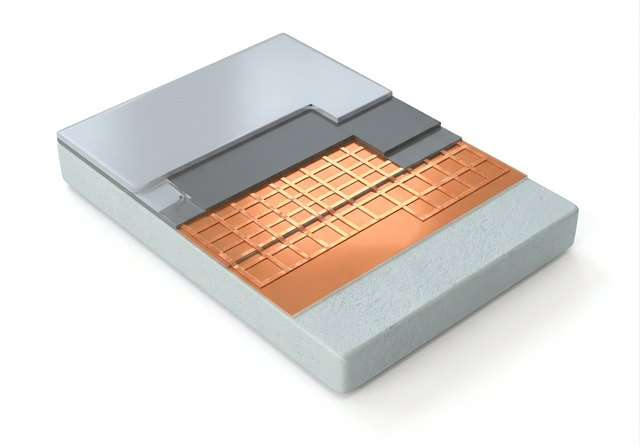
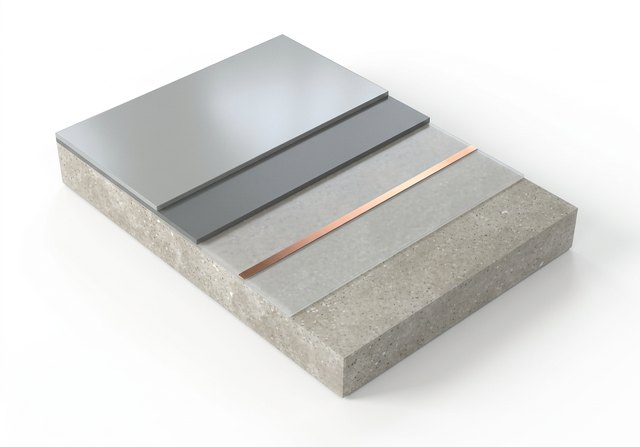
система 06: новая диаграмма — тонкая медная лента, бетон в стиле остальных систем (v2)

diff --git a/systems-06.html b/systems-06.html
@@ -39,7 +39,7 @@
 </div></div>
 <section class="sec sec-tight">
   <div class="wrap">
-    <a class="backlink" href="systems.html">← Все системы покрытий</a><div class="sys-hero"><div class="sys-photo"><img src="img/sys06.jpg" alt="Антистатическое покрытие пола — покрытие Plansher"></div><div class="facts"><div class="frow"><dt>Толщина</dt><dd>0,4–0,5 мм окрасочная · 2,0–2,5 мм наливная</dd></div><div class="frow"><dt>Цвет</dt><dd>по каталогу RAL</dd></div><div class="frow"><dt>Документ</dt><dd class="mono">ТУ 2312-001-02566361-2016</dd></div><div class="apply facts-apply"><span>Обеспылевание</span><span>Защита основания</span><span>Токопроводящий контур</span><span>Сопротивление 10⁴–10⁹ Ом</span><span>Приёмка по ГОСТ IEC 61340-4-1</span></div></div></div><div class="subblock"><h3 class="mini">Состав системы — слой за слоем</h3><div class="laystack"><div class="lay"><span class="role">Грунтование</span><span class="mat">грунтовка Plansher 111</span><span class="spec">расход 0,3 кг/м²</span></div><div class="lay"><span class="role">Токопроводящий контур</span><span class="mat">самоклеящаяся медная лента</span><span class="spec">сетка с шагом 3–6 м · подключение к контуру заземления здания</span></div><div class="lay"><span class="role">Проводящий слой</span><span class="mat">токопроводящий грунт Plansher 111 AS</span><span class="spec">расход 0,15–0,3 кг/м²</span></div><div class="lay"><span class="role">Финишный слой</span><span class="mat">антистатическая наливная композиция Plansher 212 AS</span><span class="spec">расход 3,0 кг/м² · толщина 2,0 мм</span></div><div class="lay"><span class="role">Финишный слой — окрасочный вариант</span><span class="mat">антистатическая краска Plansher 311 AS</span><span class="spec">расход 0,45 кг/м² · толщина 0,4–0,5 мм</span></div></div><div class="sys-total"><div class="t-label">Общий расход материалов для антистатического покрытия (наливной вариант)</div><ul><li>Грунтовка Plansher 111 — 0,3 кг/м²</li><li>Токопроводящий грунт Plansher 111 AS — 0,15–0,3 кг/м²</li><li>Наливная композиция Plansher 212 AS — 3,0 кг/м²</li><li>Медная лента — 0,4–0,5 м.п./м²</li></ul></div></div><div class="subblock"><h3 class="mini">Области применения</h3><div class="apply"><span>в серверных и ЦОД</span><span>на производстве электроники</span><span>в диспетчерских и лабораториях</span><span>во взрывоопасных зонах с ЛВЖ</span><span>на фармацевтических производствах</span></div></div><div class="subblock"><h3 class="mini">Рекомендации по нанесению</h3><p class="rec">Поэтапное нанесение материалов, начиная с основания.</p><p class="rec">Наносится с расходом 0,1–0,3 кг/м² (в зависимости от впитывающей способности основания) на слой, нейлоновым валиком с длиной ворса ~8–12 мм, или резиновым или гладким шпателем.</p><p class="rec">Нанесение производится в 2 слоя.</p></div><div class="subblock"><h3 class="mini">Подготовка материала к применению</h3><ol class="prep"><li>Тщательно, не менее 2-х мин., перемешать компонент А низкооборотным миксером (150–300 об/мин).</li><li>Добавить все количество компонента В в емкость с компонентом А и перемешивать в течение еще ~2-х мин., обращая особое внимание на перемешивание материала у дна и стенок, до достижения однородной смеси.</li><li>При необходимости введения наполнителя (Plansher® Quartz, Plansher® Filler N), его вводят после смешения компонентов А и В, и снова перемешивают смесь до однородного состояния.</li><li>Для гарантированного получения однородной смеси следует перелить смесь в чистую емкость и снова перемешать до достижения однородного состояния. Для минимизации воздухововлечения миксер должен быть укомплектован соответствующей насадкой. По этой же причине не рекомендуется слишком длительное перемешивание.</li></ol></div><div class="subblock"><h3 class="mini">Преимущества</h3><div class="apply"><span>Высокая адгезия и механическая прочность</span><span>Низкая вязкость</span><span>Легкость нанесения</span><span>Универсальность применения</span><span>Высокая наполняемость кварцевым песком</span><span>Совместимость с различными наполнителями</span><span>Быстрый набор прочности</span><span>Не содержит растворителей</span><span>Экономичность</span></div></div><div class="subblock"><h3 class="mini">Хранение и безопасность</h3><div class="safety"><div class="safe"><h4>Срок и условия хранения</h4><ul><li>Гарантийный срок хранения 12 месяцев от даты производства.</li><li>Компоненты хранить в заводской упаковке, в сухом помещении, при температуре от +10°С до +30°С.</li><li>Не допускать попадания прямых солнечных лучей.</li><li>Хранение после вскрытия заводской упаковки не допускается.</li></ul></div><div class="safe"><h4>Токсичность</h4><p class="tox-v">Класс 2</p><p class="mono">ГОСТ 12.1.005-88</p></div><div class="safe"><h4>Меры предосторожности</h4><ul><li>Работы проводить в хорошо проветриваемом помещении.</li><li>Не допускать попадания материала на открытые участки кожи, в глаза и рот.</li><li>При проведении работ использовать средства индивидуальной защиты.</li></ul></div><div class="safe"><h4>Экологическая безопасность</h4><p>Компоненты в несмешанном состоянии могут повлечь загрязнение окружающей среды. Не допускать попадания в канализацию, почву и грунтовые воды. Отвержденный состав может утилизироваться как твердый строительный мусор.</p></div><div class="safe wide"><h4>Ограничение ответственности</h4><p>Компания Plansher не может контролировать процесс перевозки, хранения, нанесения материалов и условия эксплуатации покрытий конечными пользователями. Компания отвечает только за качество материалов при их поставке потребителям и гарантирует соответствие стандартам. Мы не берём на себя ответственность за проблемы, вызванные неправильным использованием материалов.</p></div></div></div><div class="sysnav subblock"><a href="systems-05.html"><span class="nlabel">← СИСТЕМА 05</span><span class="ntitle">Кварценаполненное нескользящее покрытие</span></a><a class="next" href="systems-01.html"><span class="nlabel">СИСТЕМА 01 →</span><span class="ntitle">Обеспыливающее покрытие</span></a></div>
+    <a class="backlink" href="systems.html">← Все системы покрытий</a><div class="sys-hero"><div class="sys-photo"><img src="img/sys06.jpg?v=2" alt="Антистатическое покрытие пола — покрытие Plansher"></div><div class="facts"><div class="frow"><dt>Толщина</dt><dd>0,4–0,5 мм окрасочная · 2,0–2,5 мм наливная</dd></div><div class="frow"><dt>Цвет</dt><dd>по каталогу RAL</dd></div><div class="frow"><dt>Документ</dt><dd class="mono">ТУ 2312-001-02566361-2016</dd></div><div class="apply facts-apply"><span>Обеспылевание</span><span>Защита основания</span><span>Токопроводящий контур</span><span>Сопротивление 10⁴–10⁹ Ом</span><span>Приёмка по ГОСТ IEC 61340-4-1</span></div></div></div><div class="subblock"><h3 class="mini">Состав системы — слой за слоем</h3><div class="laystack"><div class="lay"><span class="role">Грунтование</span><span class="mat">грунтовка Plansher 111</span><span class="spec">расход 0,3 кг/м²</span></div><div class="lay"><span class="role">Токопроводящий контур</span><span class="mat">самоклеящаяся медная лента</span><span class="spec">сетка с шагом 3–6 м · подключение к контуру заземления здания</span></div><div class="lay"><span class="role">Проводящий слой</span><span class="mat">токопроводящий грунт Plansher 111 AS</span><span class="spec">расход 0,15–0,3 кг/м²</span></div><div class="lay"><span class="role">Финишный слой</span><span class="mat">антистатическая наливная композиция Plansher 212 AS</span><span class="spec">расход 3,0 кг/м² · толщина 2,0 мм</span></div><div class="lay"><span class="role">Финишный слой — окрасочный вариант</span><span class="mat">антистатическая краска Plansher 311 AS</span><span class="spec">расход 0,45 кг/м² · толщина 0,4–0,5 мм</span></div></div><div class="sys-total"><div class="t-label">Общий расход материалов для антистатического покрытия (наливной вариант)</div><ul><li>Грунтовка Plansher 111 — 0,3 кг/м²</li><li>Токопроводящий грунт Plansher 111 AS — 0,15–0,3 кг/м²</li><li>Наливная композиция Plansher 212 AS — 3,0 кг/м²</li><li>Медная лента — 0,4–0,5 м.п./м²</li></ul></div></div><div class="subblock"><h3 class="mini">Области применения</h3><div class="apply"><span>в серверных и ЦОД</span><span>на производстве электроники</span><span>в диспетчерских и лабораториях</span><span>во взрывоопасных зонах с ЛВЖ</span><span>на фармацевтических производствах</span></div></div><div class="subblock"><h3 class="mini">Рекомендации по нанесению</h3><p class="rec">Поэтапное нанесение материалов, начиная с основания.</p><p class="rec">Наносится с расходом 0,1–0,3 кг/м² (в зависимости от впитывающей способности основания) на слой, нейлоновым валиком с длиной ворса ~8–12 мм, или резиновым или гладким шпателем.</p><p class="rec">Нанесение производится в 2 слоя.</p></div><div class="subblock"><h3 class="mini">Подготовка материала к применению</h3><ol class="prep"><li>Тщательно, не менее 2-х мин., перемешать компонент А низкооборотным миксером (150–300 об/мин).</li><li>Добавить все количество компонента В в емкость с компонентом А и перемешивать в течение еще ~2-х мин., обращая особое внимание на перемешивание материала у дна и стенок, до достижения однородной смеси.</li><li>При необходимости введения наполнителя (Plansher® Quartz, Plansher® Filler N), его вводят после смешения компонентов А и В, и снова перемешивают смесь до однородного состояния.</li><li>Для гарантированного получения однородной смеси следует перелить смесь в чистую емкость и снова перемешать до достижения однородного состояния. Для минимизации воздухововлечения миксер должен быть укомплектован соответствующей насадкой. По этой же причине не рекомендуется слишком длительное перемешивание.</li></ol></div><div class="subblock"><h3 class="mini">Преимущества</h3><div class="apply"><span>Высокая адгезия и механическая прочность</span><span>Низкая вязкость</span><span>Легкость нанесения</span><span>Универсальность применения</span><span>Высокая наполняемость кварцевым песком</span><span>Совместимость с различными наполнителями</span><span>Быстрый набор прочности</span><span>Не содержит растворителей</span><span>Экономичность</span></div></div><div class="subblock"><h3 class="mini">Хранение и безопасность</h3><div class="safety"><div class="safe"><h4>Срок и условия хранения</h4><ul><li>Гарантийный срок хранения 12 месяцев от даты производства.</li><li>Компоненты хранить в заводской упаковке, в сухом помещении, при температуре от +10°С до +30°С.</li><li>Не допускать попадания прямых солнечных лучей.</li><li>Хранение после вскрытия заводской упаковки не допускается.</li></ul></div><div class="safe"><h4>Токсичность</h4><p class="tox-v">Класс 2</p><p class="mono">ГОСТ 12.1.005-88</p></div><div class="safe"><h4>Меры предосторожности</h4><ul><li>Работы проводить в хорошо проветриваемом помещении.</li><li>Не допускать попадания материала на открытые участки кожи, в глаза и рот.</li><li>При проведении работ использовать средства индивидуальной защиты.</li></ul></div><div class="safe"><h4>Экологическая безопасность</h4><p>Компоненты в несмешанном состоянии могут повлечь загрязнение окружающей среды. Не допускать попадания в канализацию, почву и грунтовые воды. Отвержденный состав может утилизироваться как твердый строительный мусор.</p></div><div class="safe wide"><h4>Ограничение ответственности</h4><p>Компания Plansher не может контролировать процесс перевозки, хранения, нанесения материалов и условия эксплуатации покрытий конечными пользователями. Компания отвечает только за качество материалов при их поставке потребителям и гарантирует соответствие стандартам. Мы не берём на себя ответственность за проблемы, вызванные неправильным использованием материалов.</p></div></div></div><div class="sysnav subblock"><a href="systems-05.html"><span class="nlabel">← СИСТЕМА 05</span><span class="ntitle">Кварценаполненное нескользящее покрытие</span></a><a class="next" href="systems-01.html"><span class="nlabel">СИСТЕМА 01 →</span><span class="ntitle">Обеспыливающее покрытие</span></a></div>
     <div style="margin-top:44px"><div class="cta">
 <div>
 <h3>Слой за слоем. Для десятилетий.</h3>

diff --git a/systems.html b/systems.html
@@ -91,7 +91,7 @@
 <span class="sys-more">Особенности системы →</span>
 </div>
 </a><a class="sys" href="systems-06.html">
-<img class="sys-img" src="img/sys06.jpg" alt="Антистатическое покрытие пола" loading="lazy">
+<img class="sys-img" src="img/sys06.jpg?v=2" alt="Антистатическое покрытие пола" loading="lazy">
 <div class="sys-body">
 <div class="sys-top"><span class="sys-num">СИСТЕМА 06</span><span class="sys-thick">2,0 мм</span></div>
 <h3>Антистатическое покрытие</h3>
